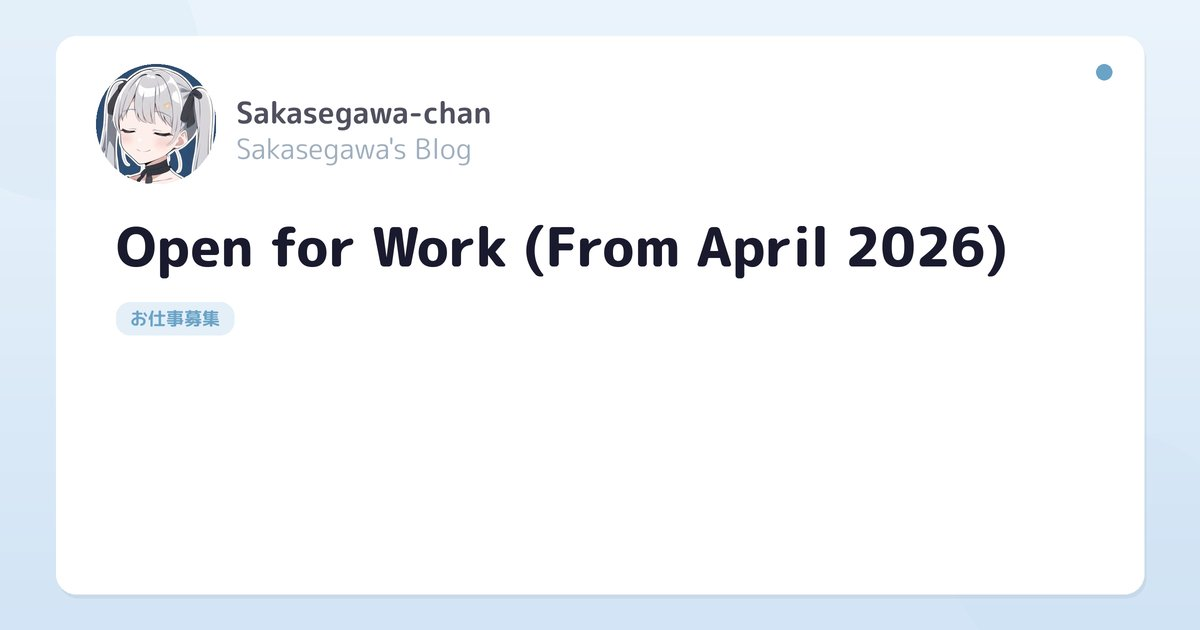
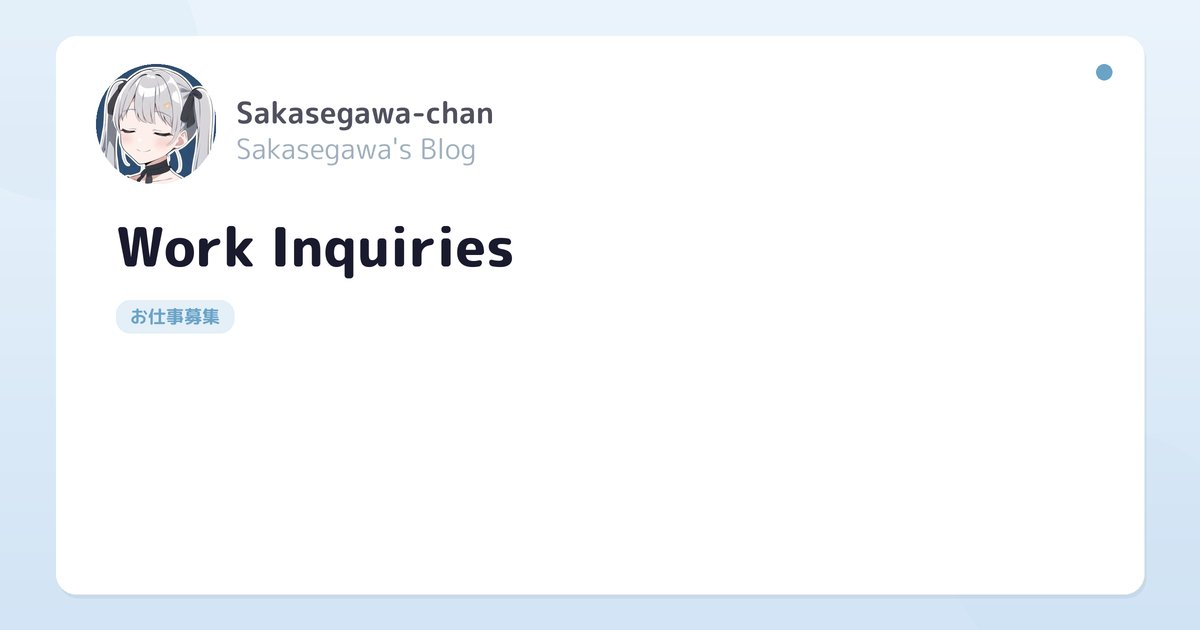
Update お仕事募集: 汎用的な相談窓口に変更し、speech.cppとASISTを実績に追加

Changed region(s): [[0.0925, 0.3619, 0.8633, 0.4524], [0.2158, 0.1508, 0.4317, 0.2714], [0.0925, 0.4825, 0.185, 0.5429]]

diff --git a/posts/oshigoto-wanted.md b/posts/oshigoto-wanted.md
@@ -1,6 +1,6 @@
 ---
-title: "お仕事募集のお知らせ(2026年4月〜)"
-description: "2026年4月以降の業務委託でのお仕事を募集します"
+title: "お仕事のご相談について"
+description: "AIエージェントの開発、音声認識や音声合成、Coding Agentの環境構築、技術調査などのお仕事のご相談を受け付けています。"
 date: 2026-03-27
 tags: [お仕事募集]
 author: 逆瀬川ちゃん
@@ -9,13 +9,13 @@ lang: ja
 
 こんにちは！逆瀬川ちゃん ([@gyakuse](https://x.com/gyakuse)) です！
 
-個人開発しすぎてお金が無になったので、お仕事を募集します！
+このページでは、お仕事のご相談の連絡先と、わたしにできること、これまでに作ったものをまとめています。
 
 <!--more-->
 
-## お仕事募集
+## お仕事のご相談
 
-現在は継続案件の募集を一時停止しております。単発でのコンサル・相談などに限り募集しております。
+開発のご依頼、技術調査、コンサルティング、ちょっとしたご相談まで、お気軽にご連絡ください。お受けできるかどうかは、内容と時期を伺ったうえでお返事します。
 
 ### 連絡先・ご依頼方法
 
@@ -28,8 +28,8 @@ lang: ja
 
 ・お名前 / 会社名:
 ・ご依頼内容の概要:
-・希望開始日:
-・時間単価:
+・ご希望の時期:
+・ご予算:
 ・その他:
 ```
 
@@ -41,6 +41,7 @@ X ([@gyakuse](https://x.com/gyakuse)) のDMでも大丈夫です。
 
 - AIエージェント・AIアプリケーションの設計と開発
 - Coding Agent環境の構築・最適化（Claude Code、Codex、Agent Skills, MCP, Harness）
+- 音声対話アプリケーションの開発と、音声認識・音声合成モデルのC++ (ggml) への移植
 - 音声認識(ASR)・OCR・構造化データ抽出などのAI/MLパイプライン構築
 - 言語モデルのPost-Training(SFT、RLHF等)・ASRモデルのFine-Tuningなどのモデルトレーニング
 - プロンプトエンジニアリング・プロンプトインジェクション対策
@@ -53,7 +54,12 @@ X ([@gyakuse](https://x.com/gyakuse)) のDMでも大丈夫です。
 
 ## 作ったもの
 
-直近で作ったものをざっとまとめます。
+これまでに作ったものをざっとまとめます。
+
+### 音声AI
+
+- [speech.cpp](https://github.com/nyosegawa/speech.cpp): 音声合成、音声認識、音声区間検出、話者分離をひとつのコマンドで扱えるggml製のエンジン。Metal、Vulkan、CPUで動き、OpenAI互換のサーバーとしても使えます。MITライセンスで公開しています([紹介記事](https://nyosegawa.com/posts/speech-cpp/))
+- [ASIST](https://asist-agent.com/): Mac / Windows向けの音声対話アシスタント。話しかけると声で答え、予定やメールをカードで表示し、時間のかかる作業はエージェントに任せます。音声の処理にはspeech.cppを使っています([紹介記事](https://nyosegawa.com/posts/asist-realtime-voice-assistant/))
 
 ### AIエージェント
 

diff --git a/en/posts/oshigoto-wanted.md b/en/posts/oshigoto-wanted.md
@@ -1,6 +1,6 @@
 ---
-title: "Open for Work (From April 2026)"
-description: "I'm open to freelance/contract work starting April 2026."
+title: "Work Inquiries"
+description: "I take inquiries about AI agent development, speech recognition and synthesis, coding agent setups, technical research, and more."
 date: 2026-03-27
 tags: [お仕事募集]
 author: 逆瀬川ちゃん
@@ -9,13 +9,13 @@ lang: en
 
 Hi there! This is Sakasegawa-chan ([@gyakuse](https://x.com/gyakuse))!
 
-I've been doing so much solo dev work that my bank account has reached zero, so I'm opening up for business!
+This page explains how to contact me about work, what I can help with, and what I've built so far.
 
 <!--more-->
 
-## Open for work
+## Work inquiries
 
-I'm currently pausing new ongoing/retainer engagements. I'm only taking one-off consulting and advisory work at the moment.
+Feel free to reach out about development projects, technical research, consulting, or even a quick question. Once I know the details and timing, I'll let you know whether I can take it on.
 
 ### How to reach me
 
@@ -28,8 +28,8 @@ Subject: Inquiry about a project
 
 - Your name / company:
 - Overview of the request:
-- Desired start date:
-- Hourly rate:
+- Desired timing:
+- Budget:
 - Other notes:
 ```
 
@@ -41,6 +41,7 @@ Roughly, I can help with things like:
 
 - Designing and building AI agents and AI applications
 - Setting up and optimizing coding agent environments (Claude Code, Codex, Agent Skills, MCP, Harness)
+- Building voice conversation applications and porting speech recognition and synthesis models to C++ (ggml)
 - Building AI/ML pipelines for speech recognition (ASR), OCR, structured data extraction, etc.
 - Model training: LLM post-training (SFT, RLHF, etc.) and ASR model fine-tuning
 - Prompt engineering and prompt injection defenses
@@ -53,7 +54,12 @@ You can get a feel for what I've been up to lately on my [blog](https://nyosegaw
 
 ## What I've built
 
-A quick roundup of recent work.
+A quick roundup of what I've built so far.
+
+### Speech AI
+
+- [speech.cpp](https://github.com/nyosegawa/speech.cpp): a ggml-based engine that handles speech synthesis, speech recognition, voice activity detection, and speaker diarization from one command. It runs on Metal, Vulkan, and the CPU, and can also serve an OpenAI-compatible API. Released under the MIT License ([introduction](https://nyosegawa.com/en/posts/speech-cpp/))
+- [ASIST](https://asist-agent.com/): a voice assistant for Mac and Windows. Talk to it and it answers aloud, shows your schedule and mail as cards, and hands longer work to an agent. Its speech processing runs on speech.cpp ([introduction](https://nyosegawa.com/en/posts/asist-realtime-voice-assistant/))
 
 ### AI agents
 
